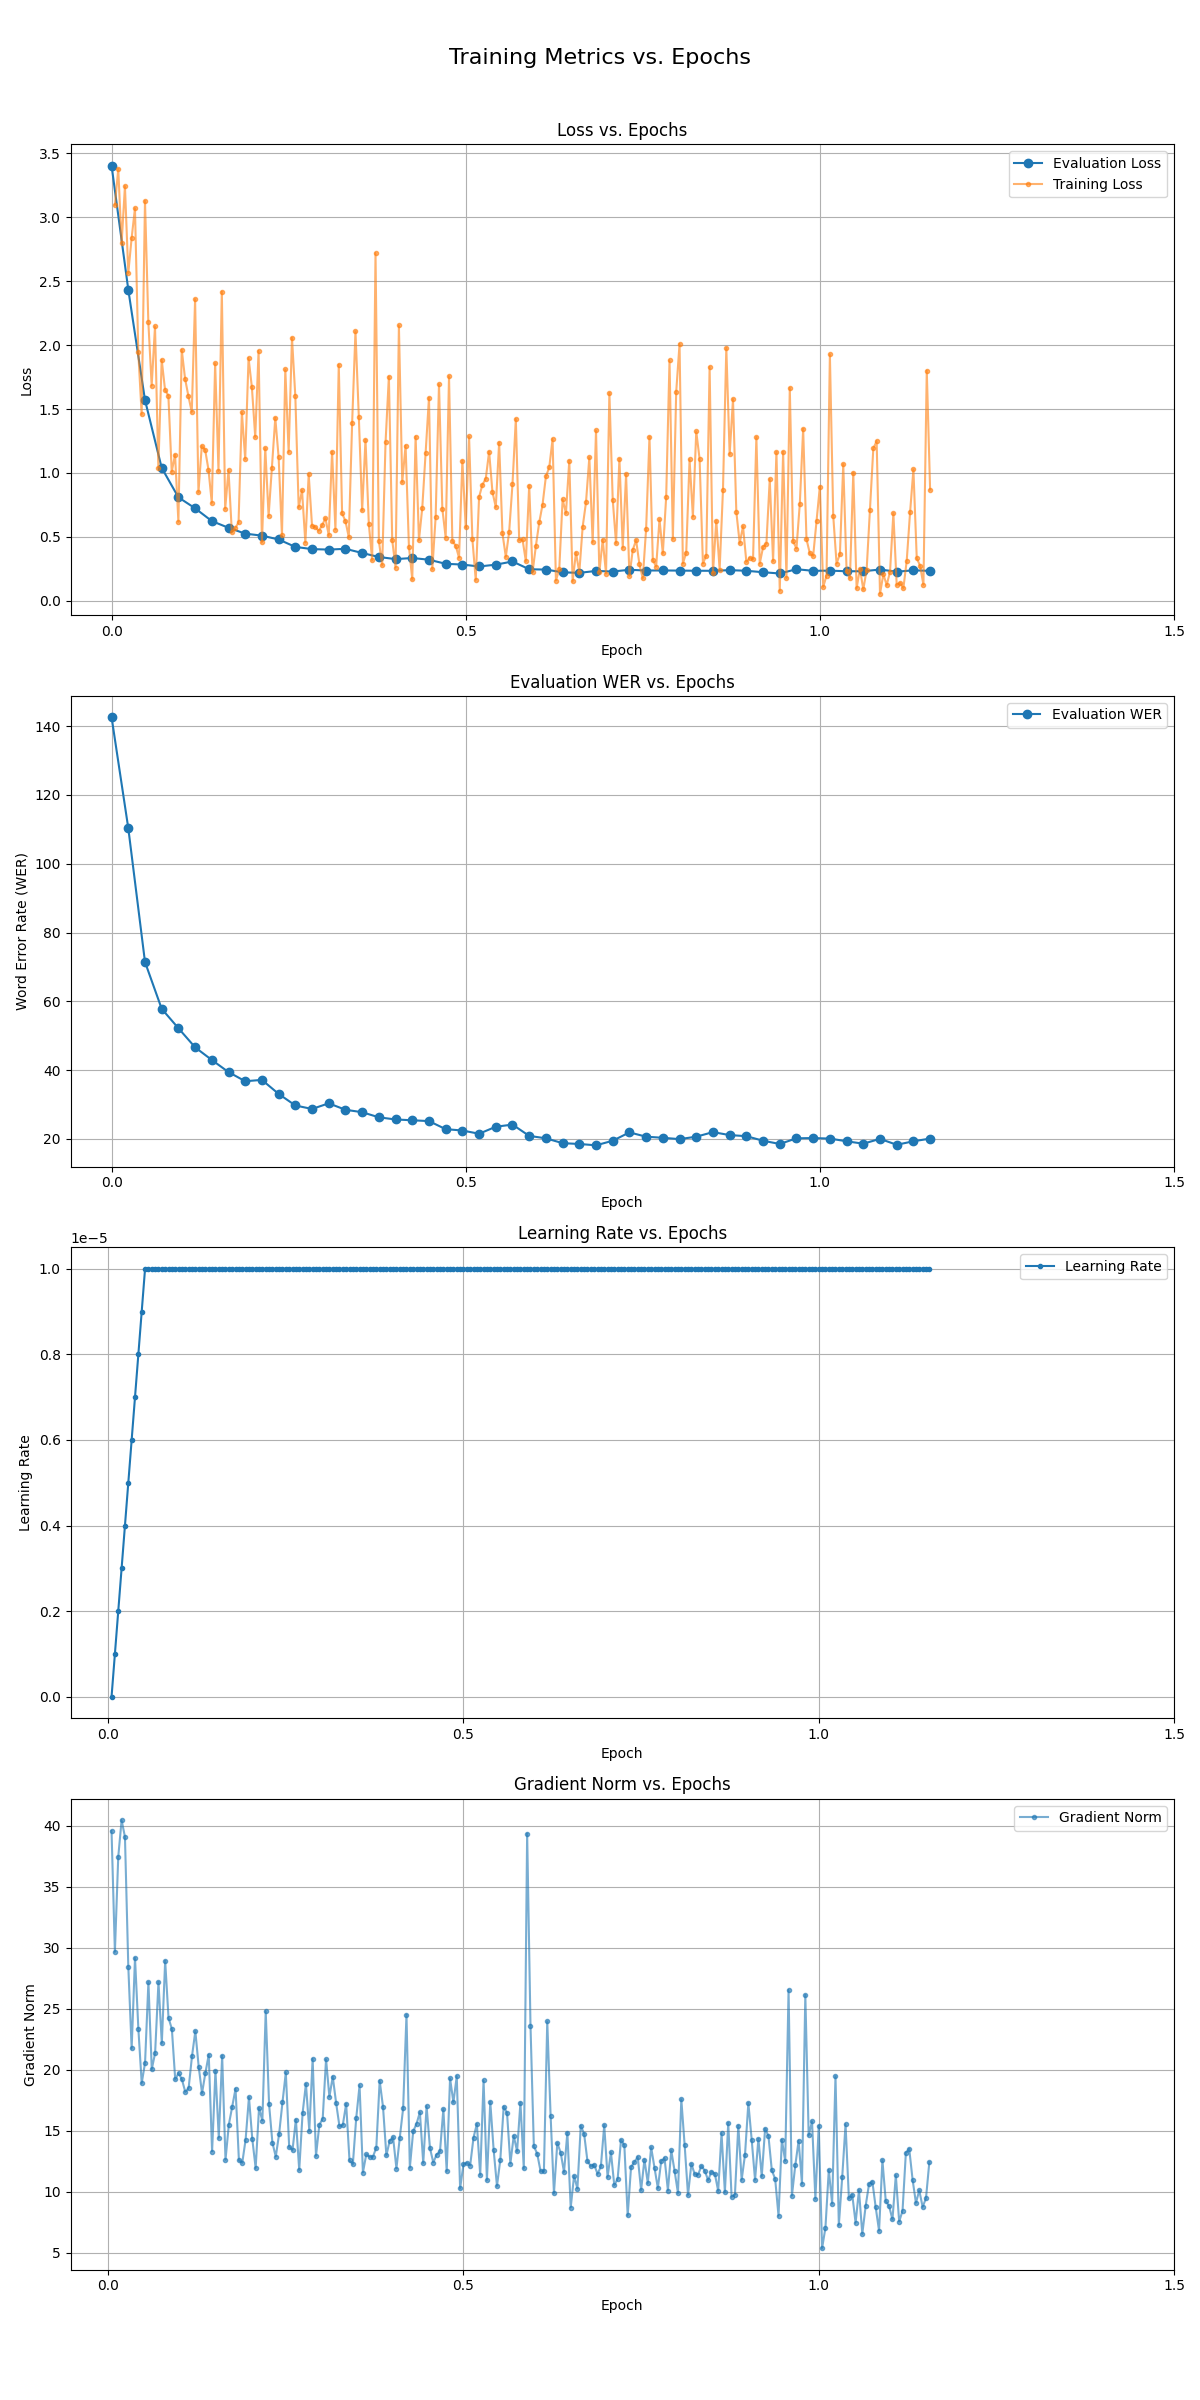
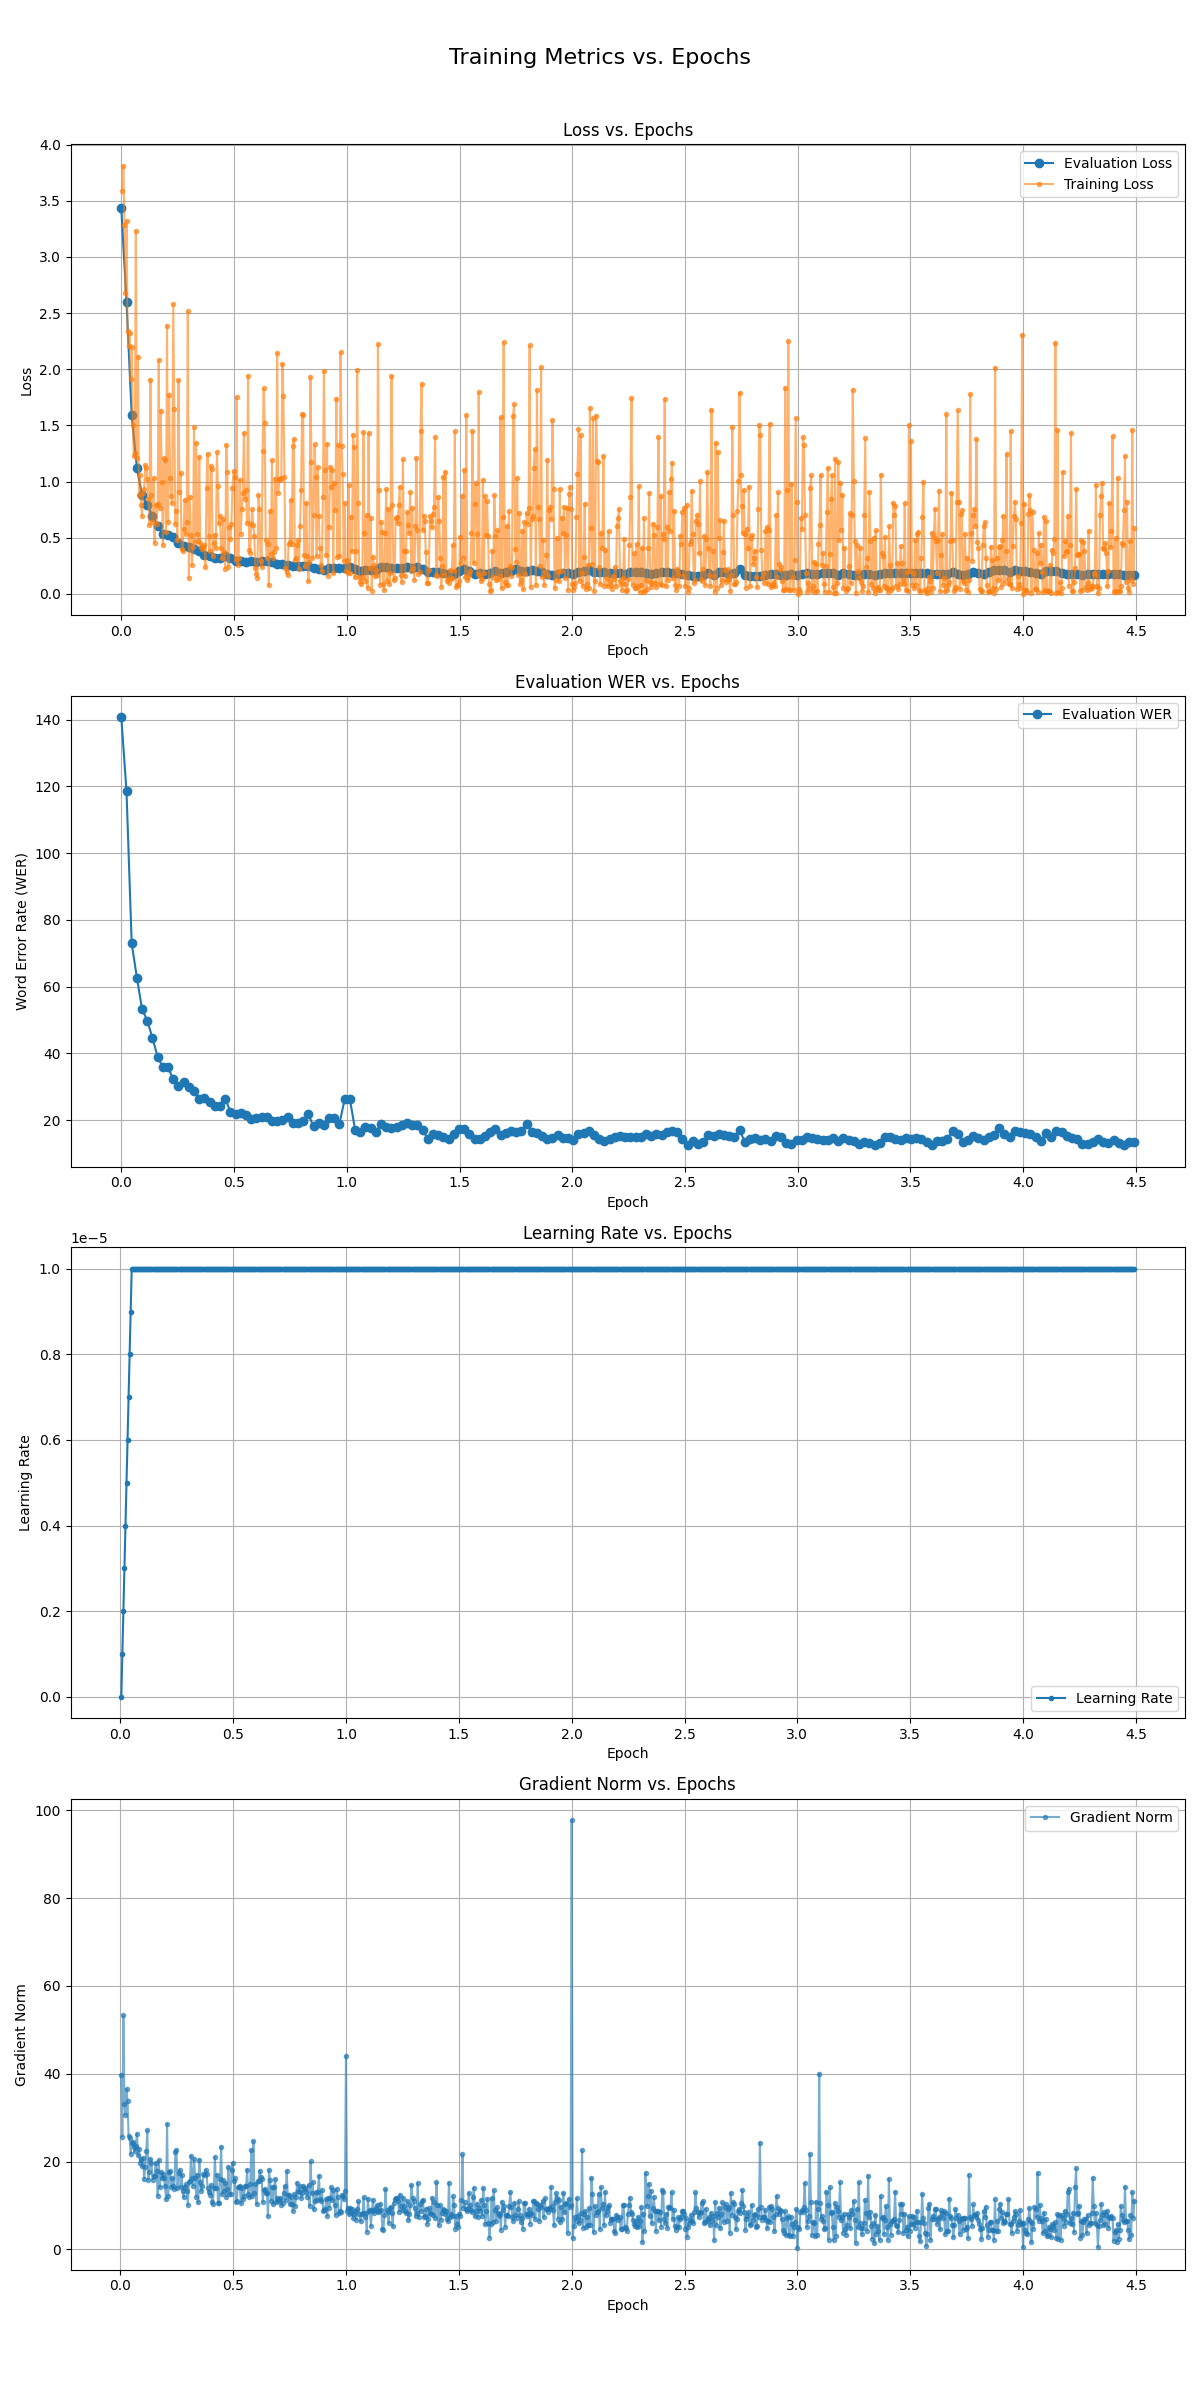
added results

diff --git a/index.html b/index.html
@@ -122,7 +122,7 @@
         <div class="desktop-text-panel" style="margin-top: 100px;">
             <h1> <b>Problem statement</b> </h1>
             <p class="paragraph add-top-padding">
-                <span class="code-font">chiara-speech2text</span> has been developed to facilitate communication of Chiara through her tablet. <br>
+                <span class="code-font">chiara-speech2text</span> has been developed to facilitate Chiara's communication through her tablet. <br>
                 Chiara is a very active girl with a passion for chatting and making new friends :) <br>
                 Unfortunately, she suffers from dysarthria and speech impairments due to cerebral palsy. She has difficulties with articulation (pronunciation), fluency (speech rate and rhythm), abnormal tone and echolalia (repetitions). <br>
                 Chiara can not write nor read, and she can only communicate via speech. She mostly communicates through voice messages, on her tablet, via Whatsapp. 
@@ -134,7 +134,7 @@
             <p class="paragraph add-top-padding">
                 <span class="code-font">chiara-speech2text</span> is a set of software tools to help Chiara communicate and to enable ASR for her (and other users with atypical speech). <br>
                 The main user interface is a custom Android keyboard, which allows to transcribe user's speech seamlessly within standard communication apps - such as Whatsapp. 
-                The keyboard allows transcription without exiting the communication app - overcoming limitations of other ASR tools (which typically require users to exit the app, visit a web-transcription-service, and copy/paste the transcription back to the communication app). <br>
+                The keyboard can transcribe speech without exiting the communication app - overcoming limitations of other ASR tools (which typically require users to exit the app, visit a web-transcription-service, and copy/paste the transcription back to the communication app). <br>
                 Beyond the keyboard itself, the system has several other software modules to enable ASR, including functionalities to:
                 <ul>
                     <li> record labeled data required to fine-tune the model (i.e. record user's speech + data cleaning and labeling functionalities) </li>
@@ -171,7 +171,7 @@
                 </video>                    
 
                 <br>
-                Difference in transcription between fine-tuned and vanilla models (on the same recordings)
+                Difference in transcription between fine-tuned and vanilla (standard, non fine-tuned) models (on the same recordings)
                 <br>
                 <video style="max-width: 1000px; display: block; margin: 0 auto;" autobuffer controls>
                     <source id="mp4" src="assets/video_comparing-models.mp4" type="video/mp4">
@@ -196,7 +196,7 @@
                         </td>
                         <td>
                             <img id="main-img" src="assets/screenshot_frontend2.png" alt="Frontend screenshot 2" style="max-height: 500px;"> <br>
-                            Selection of words/phrases to train the model
+                            The frontend allows users to upload custom words/phrases - to train models to their own chosen vocabulary 
                         </td>
                     </tr>
                     <tr>
@@ -206,7 +206,7 @@
                         </td>
                         <td>
                             <img id="main-img" src="assets/screenshot_frontend4.png" alt="Frontend screenshot 4" style="max-height: 500px;"> <br>
-                            Listening to recordings, editing transcripts, deletion of low-quality recordings
+                            The frontend allows to listen to audio recordings, editing transcripts, delete low-quality data not suitable for training
                         </td>
                     </tr>
                 </table>
@@ -305,21 +305,22 @@
 
             <h1> <b>Results</b> </h1>
             <p class="paragraph add-top-padding">
-                The graph below shows the Word error Rate (WER) for the fine-tuned (left) and standard / vanilla (right) Whisper models.
+                The plot below shows a comparison of Word error Rate (WER) between fine-tuned and vanilla models.
                 <div class="base-row add-top-padding">
-                    <img id="main-img" src="assets/results_wer.png" alt="Results WER chiara-speech2text">
+                    <img id="main-img" src="assets/results_wer_bars.png" alt="Results WER chiara-speech2text">
                 </div>
+                Fine-tuned models can achieve 10-fold better WER than vanilla models when adapted to Chiara's speech.
             </p>
 
             <p class="paragraph add-top-padding">
-                The graphs below show the evolution of WER during a typcial training session.
+                The graphs below show the evolution of WER during a typical model-training session.
                 <div class="base-row add-top-padding">
                     <img id="main-img" src="assets/results_training.png" alt="Results training">
                 </div>
             </p>
 
             <p class="paragraph add-top-padding">            
-                The snippet below shows a comparison of the transcripts between fine-tuned and vanilla (standard. nont fine-tuned) models, across different recordings (entries). Each entry:
+                The snippet below shows a comparison of the transcripts between fine-tuned and vanilla models, across different recordings (entries). Each entry:
                 <ul>
                     <li>is enclosed with <span class="code-font">{}</span></li>
                     <li>contains the following entries:
@@ -424,6 +425,11 @@
         <!-- footer -->
         <footer>
             <h3 id="abstract">Credits</h3>
+                <p class="paragraph">
+                    The starting point for this project has been the:
+                    <a href="https://sites.research.google/euphonia/about/">Google Euphonia project</a>
+                </p>
+                
                 <p class="paragraph">
                     The website template is based on:
                     <a href="https://github.com/pyroki-toolkit/pyroki-toolkit.github.io">Pyroki Toolkit</a>